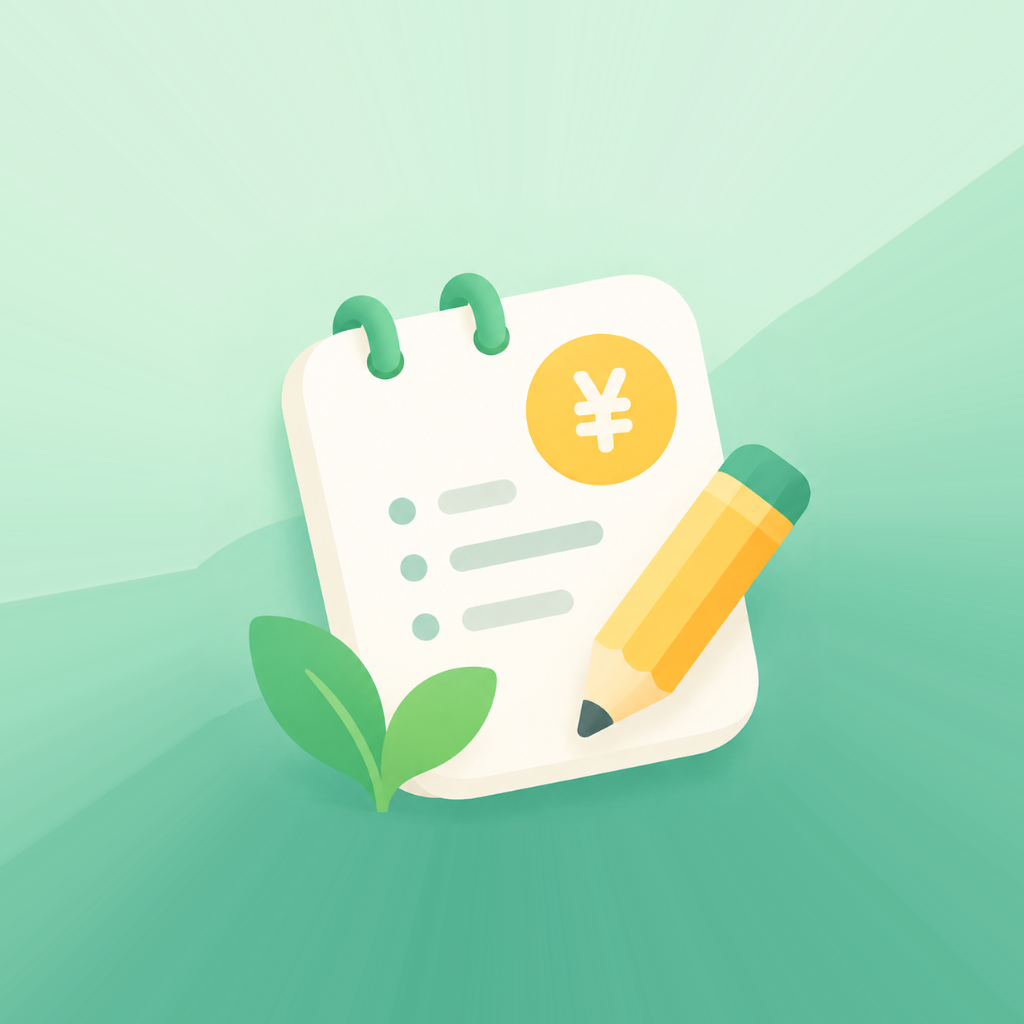
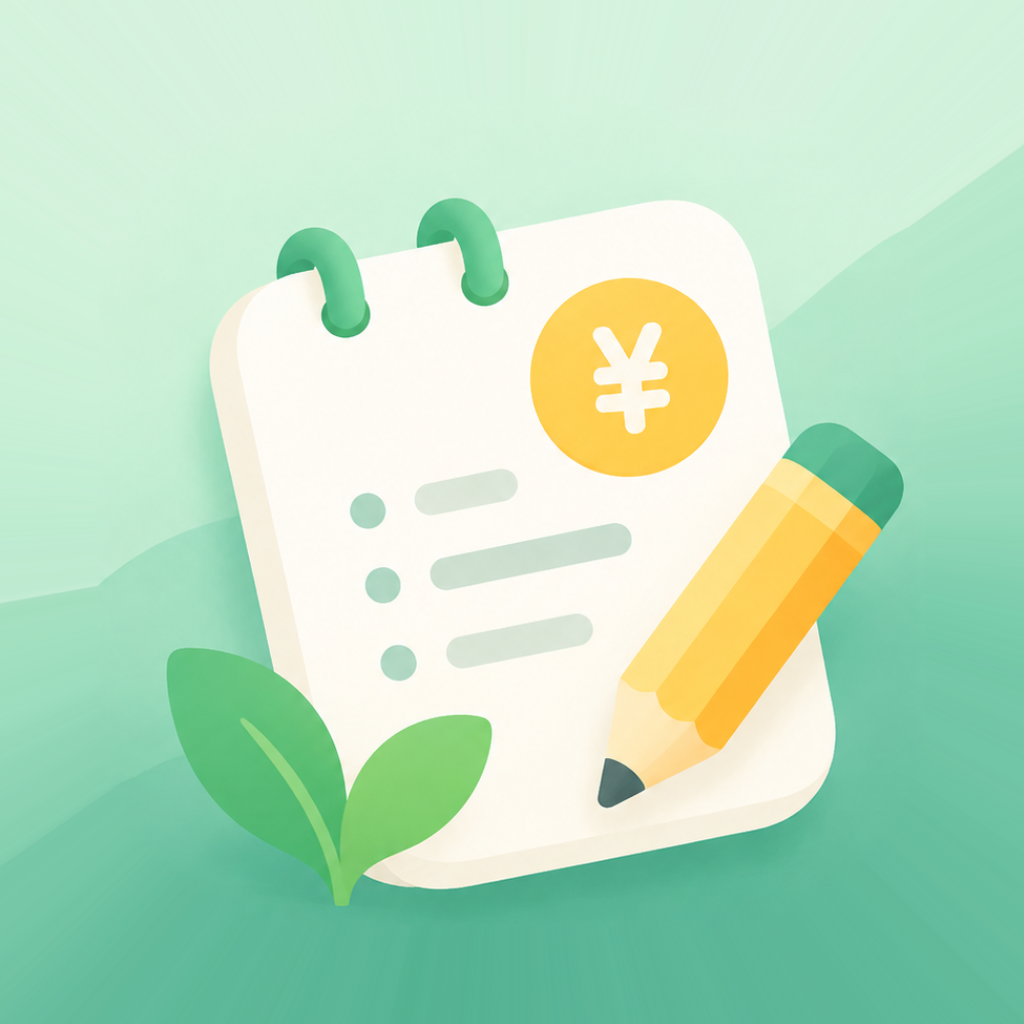
fix: 图标主体放大——账本不再被大片背景压小
上一版自适应图标把方块缩到 80%，账本只占画布约一半宽，显得背景比主体还抢眼。

重新量了主体范围：之前用「颜色偏暗 / 偏暖」当判据是错的——背景右下角最暗处
min 通道只有 95、叶子本身也是绿色系，都被误判成主体，于是算出虚高的半径，
把整张图压得过小。改用「与左右 12px 线性插值的偏离」作边缘强度，并只在圆角
方块内部统计（排除四角白底）后得到：

- 实体轮廓最大半径 ≈ 0.467 × side（叶子茎部）；
- 放宽阈值后叶子外侧尖端 ≈ 0.59 × side —— 它才是瓶颈，设计稿里叶子几乎
  贴到方块左边缘。

轮廓遮罩半径是画布宽的 1/2，换算 `r × s × 0.782 ≤ 0.5`：
- 自适应图标取 s = 1.05（叶子完整、留 3% 余量，账本约占画布 2/3 宽，
  比上一版的 1/2 明显变大）；
- 通用图标不受圆形遮罩约束（iOS / 华为等只切四角），取 s = 1.15，
  账本约占画布 72%。

项目手册 19.9 补充了这套度量与两档缩放的推导，并记下「简单颜色判据会把
背景当主体」的坑。

Changed region(s): [[0.0938, 0.1875, 0.9062, 0.9062]]

diff --git a/docs/项目手册.md b/docs/项目手册.md
@@ -759,8 +759,10 @@ git tag v0.1.3 && git push origin v0.1.3
 
 1. **定位方块**：找严格绿色背景像素的包围盒，取正方形边长，得到 `(X0, Y0, side)`；用顶边若干行的首个绿色像素偏移拟合圆角半径 `R`（当前 `R ≈ 0.262 × side`）。
 2. **满幅无缝**：输出画布取 1024×1024，把方块按比例居中放进去；**方块外的像素不要填单一色**，而是「从中心沿射线走到圆角边界再往内 5px 采样」——这样四周与四角的填充色与边界完全连续，圆角边界不可见。注意圆角边缘有 1~2px 抗锯齿（偏白），直接把边界当采样起点会留下一圈细缝，所以采样要往内缩。
-3. **安全区**：自适应图标的主体要收在画布中心直径 ~92% 的圆内（圆形遮罩半径为画布宽的一半）。当前做法是把整张方块缩到 **80%** 居中再补背景，主体最大半径约 0.39×画布，圆形与圆角方形遮罩都裁不到。
-4. **自检**：`npx jest app.config.test.js` 会校验「文件存在 / 1024×1024 / 最外圈无白边 / 主体在安全区」；另外可用圆形、圆角方形遮罩各合成一张预览图肉眼确认主体没有被裁。
+3. **放大到主体为主**：方块占画布越小，里面的账本越显得小。设方块缩放为 `s`，则方块占画布 `801 × s / 1024`，任意「以方块边长计」的半径 `r` 换算到画布为 `r × s × 0.782`。先量出主体的最大半径：用「与左右 12px 线性插值的偏离」当边缘强度，在圆角方块内部（排除四角白底）取强度 > 120 的像素，得到**实体轮廓最大半径 ≈ 0.467 × side**；再放宽到强度 > 35 会量到**叶子外侧尖端 ≈ 0.59 × side**，它才是真正的瓶颈（设计稿里叶子几乎贴到方块左边缘）。
+4. **两档缩放**：圆形遮罩半径是画布宽的 1/2，所以自适应图标要求 `r × s × 0.782 ≤ 0.5`——按叶子尖端算 `s ≤ 1.08`，当前取 **1.05**（叶子完整、留 3% 余量，账本约占画布 2/3 宽）；通用图标不受圆形遮罩约束（iOS / 华为等只切四角），当前取 **1.15**（账本约占画布 72%）。
+5. **自检**：`npx jest app.config.test.js` 会校验「文件存在 / 1024×1024 / 最外圈无白边 / 主体在安全区」；另外可用圆形、圆角方形遮罩各合成一张预览图肉眼确认主体没有被裁。
+6. **别把背景当主体**：用「颜色偏暗 / 偏暖」这类简单判据很容易把背景误判成主体——背景右下角最暗处 min 通道只有 95，叶子也是绿色系，都骗得过朴素阈值，会算出虚高的半径并导致主体被压小。判据必须基于「相对局部平滑背景的偏离」或已知类别色。
 
 > 圆角半径、缩放比例这类数值只影响生成过程，不进仓库；仓库里只保留两张成品 PNG 与门禁测试。
 
